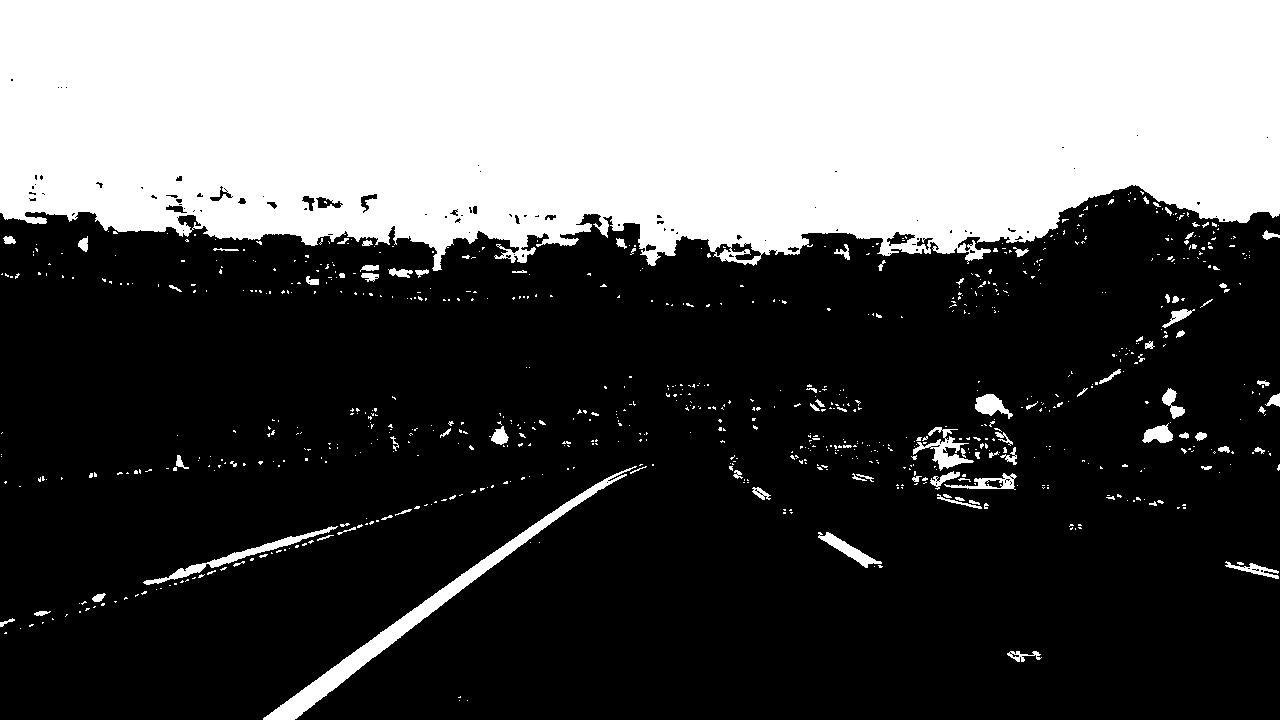
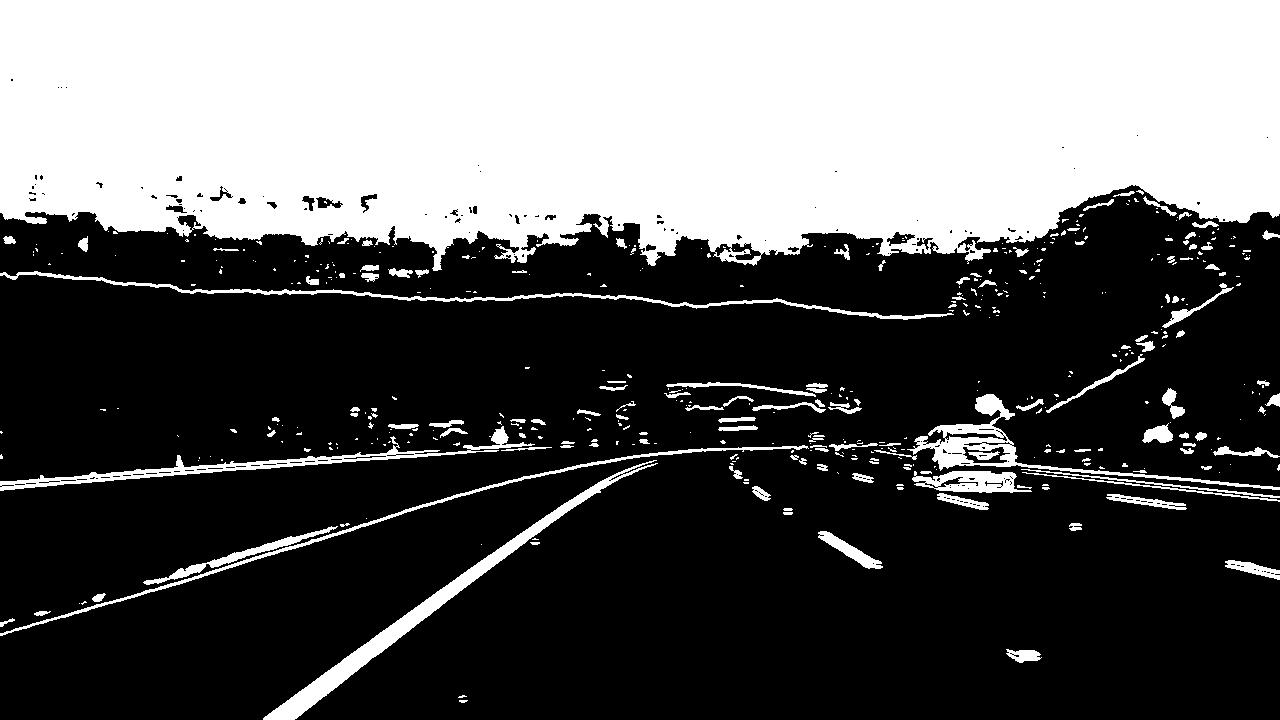
update images

diff --git a/frame_process.py b/frame_process.py
@@ -53,7 +53,7 @@ def process_image(image):
     mag_binary = utils.mag_thresh(indist, sobel_kernel=ksize, mag_thresh=(40, 250))
 
     #Gradient direction thresh fllter
-    dir_binary = utils.dir_threshold(indist, sobel_kernel=ksize, thresh=(np.pi/6, np.pi/4))
+    dir_binary = utils.dir_threshold(indist, sobel_kernel=ksize, thresh=(np.pi/6, np.pi/2))
     
     #HLS S-channel thresh fllter
     s_binary = utils.hls_select(indist, thresh=(100, 255))
